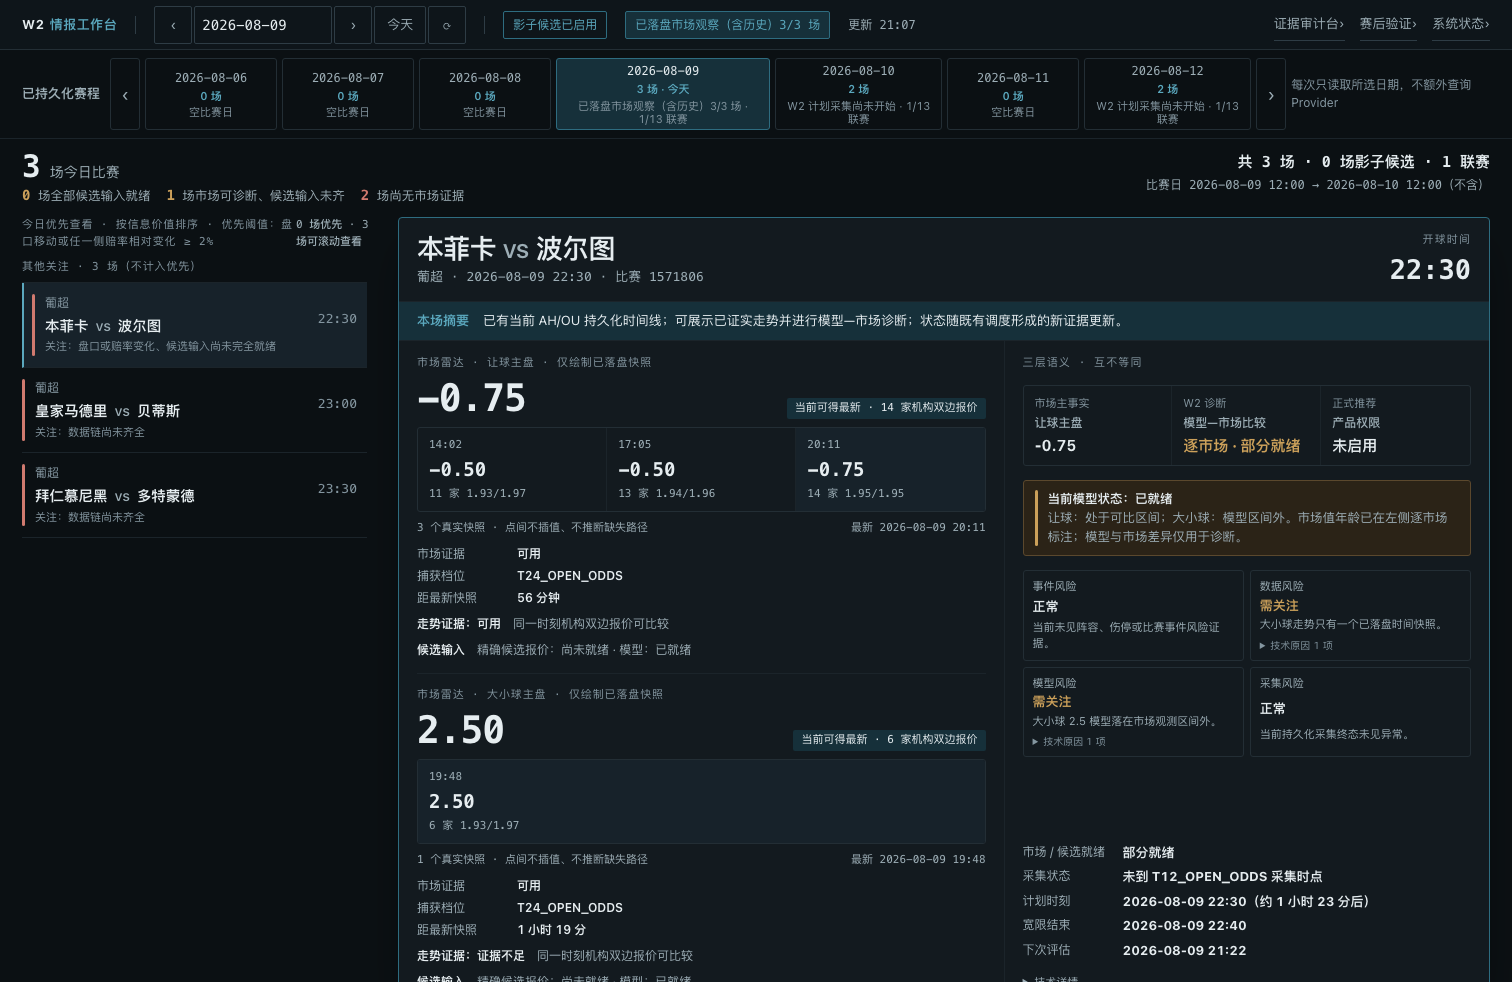
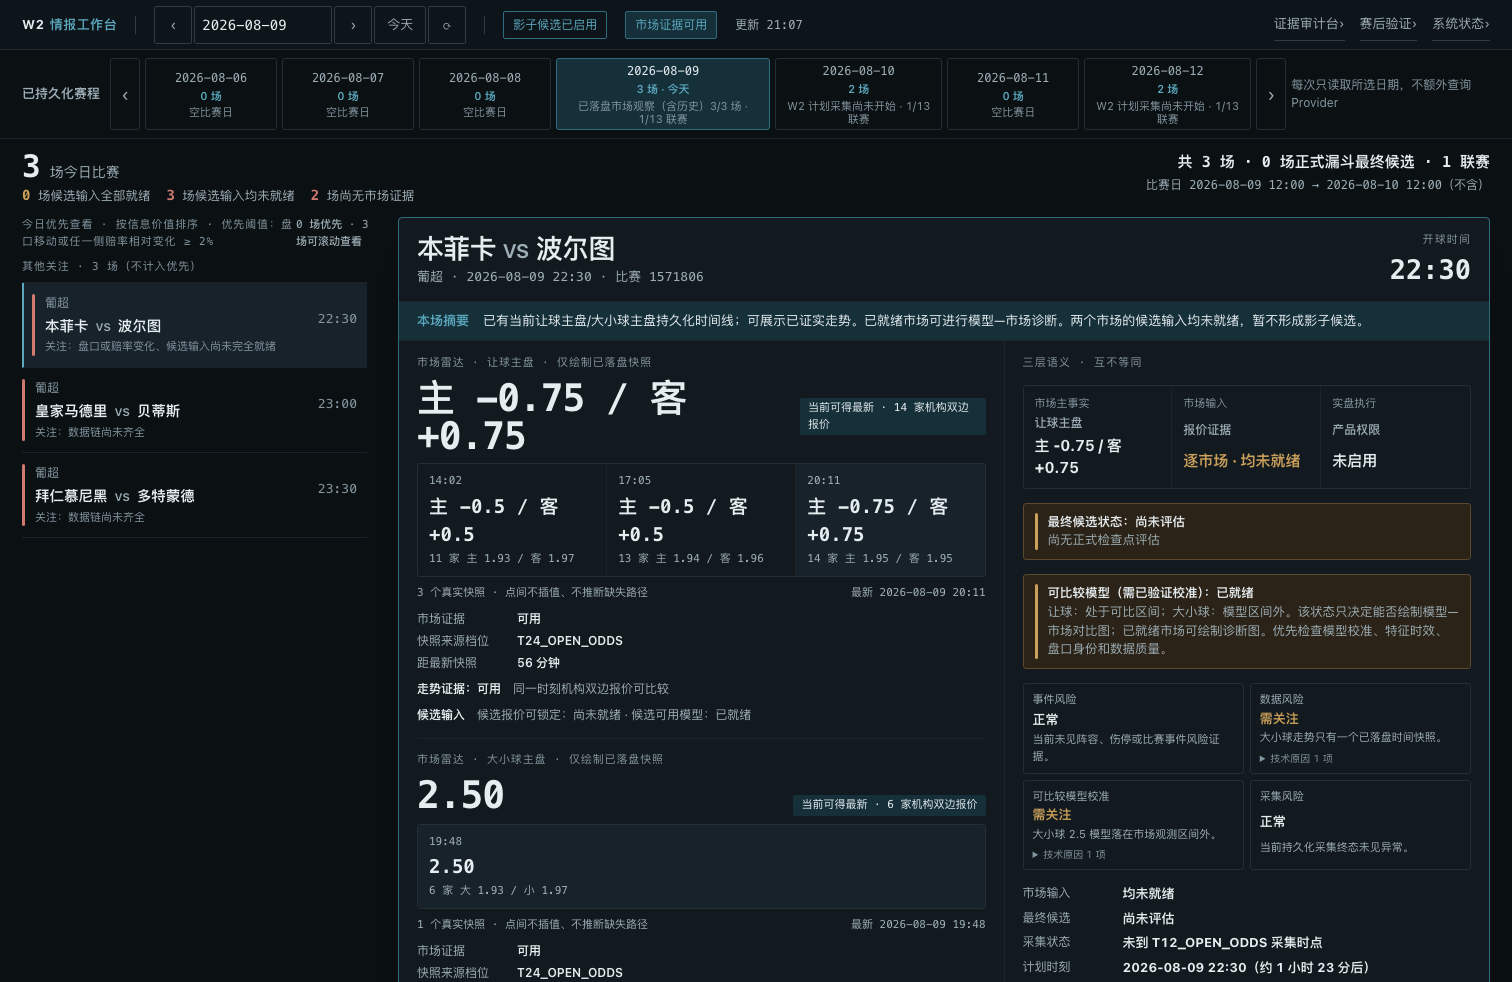
fix: label handicap lines by team

diff --git a/apps/web/src/components/IntelligenceConsole.tsx b/apps/web/src/components/IntelligenceConsole.tsx
@@ -1,6 +1,7 @@
 import { useEffect, useMemo, useRef, useState } from "react";
 import { footballDayShanghai, translateCompetition, translateReason } from "../lib/formatters";
 import { PUBLIC_ENUM_LABELS, PUBLIC_REASON_LABELS } from "../lib/labels";
+import { formatAhSideLines } from "../lib/pricingDisplay";
 import { publicPresentation } from "../lib/publicPresentation";
 import type {
   FixtureFactor,
@@ -234,6 +235,12 @@ function price(value: unknown): string {
   return raw === null || raw === undefined || raw === "" ? "—" : String(raw);
 }
 
+function marketLineLabel(market: WorkspaceMarket["market"], line: string | null): string {
+  if (!line) return "—";
+  const sides = market === "ASIAN_HANDICAP" ? formatAhSideLines(line) : null;
+  return sides ? `${sides.home.replace("主队", "主")} / ${sides.away.replace("客队", "客")}` : line;
+}
+
 function comparisonSummary(market: WorkspaceMarket): string {
   if (market.cross_sectional_comparison_status === "AVAILABLE") return "同一时刻机构双边报价可比较";
   return "当前横截面对比证据不足";
@@ -436,8 +443,8 @@ function Timeline({ kickoff, market }: { kickoff: string | null; market: Workspa
       {market.timeline_points.map((point, index) => (
         <li className={index === market.timeline_points.length - 1 ? "is-latest" : undefined} key={point.capture_id || `${point.captured_at}-${index}`}>
           <time>{snapshotClock(point.captured_at, kickoff)}</time>
-          <strong>{point.canonical_line || "—"}</strong>
-          <span>{point.bookmaker_count} 家 {price(point.prices.HOME ?? point.prices.OVER)}/{price(point.prices.AWAY ?? point.prices.UNDER)}</span>
+          <strong>{marketLineLabel(market.market, point.canonical_line)}</strong>
+          <span>{point.bookmaker_count} 家 {market.market === "ASIAN_HANDICAP" ? `主 ${price(point.prices.HOME)} / 客 ${price(point.prices.AWAY)}` : `大 ${price(point.prices.OVER)} / 小 ${price(point.prices.UNDER)}`}</span>
         </li>
       ))}
     </ol>
@@ -451,7 +458,7 @@ function MarketEvidence({ market, generatedAt, kickoff, finished, latestSnapshot
   return (
     <section className="v41-market" data-market={market.market} data-status={market.status}>
       <header><span>市场雷达 · {MARKET_LABELS[market.market]} · 仅绘制已落盘快照</span></header>
-      <div className="v41-market-line"><strong>{market.main_line || "—"}</strong><span className={`v41-status v41-status--${market.status.toLowerCase()}`}>{market.status === "READY" ? `${finished ? "开球前最后快照" : "当前可得最新"} · ${market.bookmaker_count} 家机构双边报价` : "证据不足"}</span></div>
+      <div className="v41-market-line"><strong>{marketLineLabel(market.market, market.main_line)}</strong><span className={`v41-status v41-status--${market.status.toLowerCase()}`}>{market.status === "READY" ? `${finished ? "开球前最后快照" : "当前可得最新"} · ${market.bookmaker_count} 家机构双边报价` : "证据不足"}</span></div>
       <Timeline kickoff={kickoff} market={market} />
       <p className="v41-market-foot">
         <span>{market.snapshot_count} 个真实快照 · 点间不插值、不推断缺失路径</span>
@@ -609,7 +616,7 @@ function MatchFocus({ generatedAt, match }: { generatedAt: string | null; match:
         <div className="v41-focus-meaning">
           <span className="v41-eyebrow">{candidate.status === "ACTIVE" ? "四层" : "三层"}语义 · 互不等同</span>
           <div className={`v41-three-layer ${candidate.status === "ACTIVE" ? "v41-three-layer--candidate" : ""}`}>
-            <div><span>市场主事实</span><strong>{MARKET_LABELS[primary.market]}</strong><b>{primary.main_line || "—"}</b></div>
+            <div><span>市场主事实</span><strong>{MARKET_LABELS[primary.market]}</strong><b>{marketLineLabel(primary.market, primary.main_line)}</b></div>
             <div><span>市场输入</span><strong>报价证据</strong><b>逐市场 · {candidateAggregateLabel(match.readiness.market_aggregate_status)}</b></div>
             {candidate.status === "ACTIVE" ? <div><span>影子候选</span><strong>已形成</strong><b>进入赛后验证</b></div> : null}
             <div><span>实盘执行</span><strong>产品权限</strong><b>未启用</b></div>

diff --git a/apps/web/e2e/decision-contract.spec.ts b/apps/web/e2e/decision-contract.spec.ts
@@ -542,6 +542,26 @@ test("V41 separates diagnostic market age from the candidate quote-age hard gate
   await expect(page.locator(".v41-scoreline")).toHaveCount(0);
 });
 
+test("AH market radar anchors the line and prices to both teams", async ({ page }) => {
+  const payload = workspace();
+  const focused = payload.matches.find((item) => item.fixture_id === payload.selected_fixture_id)!;
+  const handicap = focused.market_radar.markets.ASIAN_HANDICAP;
+  handicap.main_line = "0.5";
+  handicap.timeline_points = handicap.timeline_points.map((point) => ({
+    ...point,
+    canonical_line: "0.5",
+    prices: { HOME: 1.94, AWAY: 1.80 },
+  }));
+  await page.route("**/v1/dashboard/intelligence-workspace?**", (route) => route.fulfill({ status: 200, json: payload }));
+  await page.goto("/");
+
+  const market = page.locator("[data-market='ASIAN_HANDICAP']");
+  await expect(market.locator(".v41-market-line > strong")).toHaveText("主 +0.5 / 客 -0.5");
+  await expect(market.locator(".v41-snapshots li").last()).toContainText("主 +0.5 / 客 -0.5");
+  await expect(market.locator(".v41-snapshots li").last()).toContainText("主 1.94 / 客 1.80");
+  await expect(page.locator(".v41-three-layer > div").first()).toContainText("主 +0.5 / 客 -0.5");
+});
+
 test("R5 factor checklist keeps model and shadow tracks separate per market", async ({ page }, testInfo) => {
   await installWorkspace(page, "stale");
   await page.goto("/");
